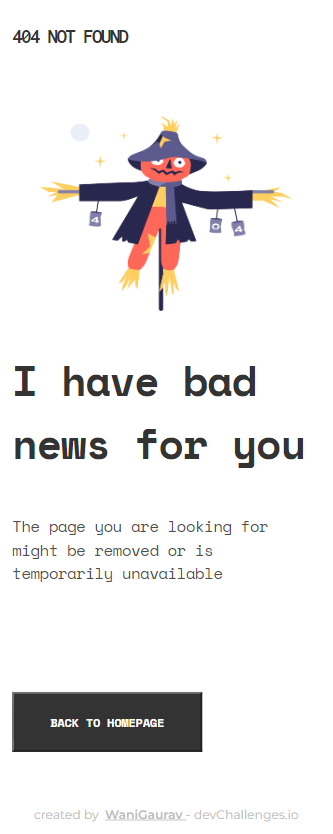
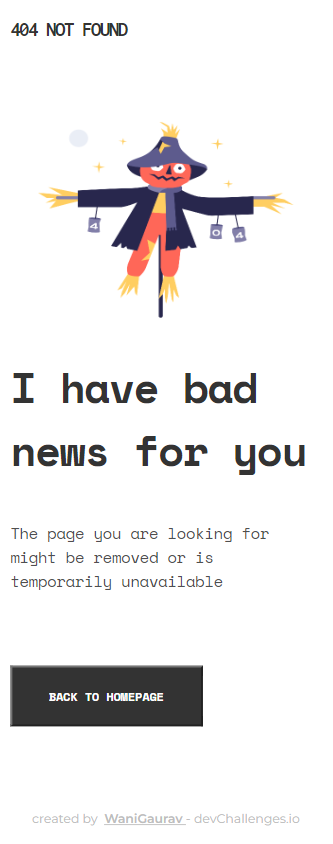
spces fix update

diff --git a/style.css b/style.css
@@ -2,16 +2,19 @@
 @import url("https://fonts.googleapis.com/css2?family=Space+Mono:ital,wght@0,400;0,700;1,400;1,700&display=swap");
 @import url("https://fonts.googleapis.com/css2?family=Montserrat:wght@400;600&display=swap");
 
-* {
+body{
   margin: 0;
-  padding: 0;
+}
+body p {
+  margin: 0;
 }
 .container {
   width: 100%;
-  height: 100vh;
   display: grid;
   grid-template-rows: 0.3fr 2.4fr 0.3fr;
   grid-template-columns: 1fr 1fr;
+  height: 100vh;
+
 }
 .item1 {
   grid-column: 1 / span 2;
@@ -24,9 +27,9 @@
 .item3 {
   grid-column: 1 / span 2;
   display: flex;
-  align-items: center;
+  align-items: flex-end;
   justify-content: center;
-  margin-bottom: 1rem;
+  padding-bottom: 20px;
 }
 .columnone {
   width: 50%;
@@ -42,7 +45,7 @@
 }
 
 .headnf {
-  margin-left: 4rem;
+  margin-left: 3rem;
   align-self: flex-start;
   font-family: "Inconsolata";
   font-style: normal;
@@ -54,7 +57,7 @@
 }
 
 .imagescr {
-  margin-left: 4rem;
+  margin-left: 3rem;
   height: 447px;
   width: 539px;
   left: 77px;
@@ -94,7 +97,6 @@
   height: 68px;
   left: 783px;
   top: 663px;
-
   background-color: #333333;
 }
 
@@ -113,36 +115,33 @@
 }
 
 .footer-column {
-  margin-top: auto;
   display: flex;
-  align-items: center;
   justify-content: center;
   font-family: "Montserrat";
   font-style: normal;
   font-weight: 500;
   font-size: 14px;
   line-height: 17px;
-
   color: #bdbdbd;
 }
 
 /* Mobile view */
 
-@media only screen and (max-width: 1200px) {
+@media only screen and (max-width: 1200px){
+  
   .container {
-    width: 100vw;
-    height: 100vh;
-    padding: 2rem;
+    width: 100%;
     display: grid;
-    justify-items: center;
     grid-template-rows: 0.3fr 2.4fr 0.3fr;
     grid-template-columns: 1fr;
+    height: 100vh;
     justify-items: center;
     align-content: space-between;
   }
   .item1 {
     width: 350px;
-    align-self: flex-start;
+    padding-top: 20px;
+    align-self:flex-start;
   }
   .item2 {
     width: fit-content;
@@ -152,7 +151,6 @@
   }
   .item3 {
     width: fit-content;
-
     display: flex;
     flex-direction: column;
     align-self: flex-end;
@@ -227,7 +225,7 @@
   }
 
   .btn-bck {
-    align-self: flex-end;
+    align-self: center;
     width: 216px;
     height: 68px;
     left: 24px;
@@ -250,7 +248,6 @@
   }
 
   .footer-column {
-    margin-top: auto;
     display: flex;
     align-items: center;
     justify-content: center;

diff --git a/index.html b/index.html
@@ -12,7 +12,7 @@
     
     <div class="container">   
         <div class="item1"> 
-            <p class="headnf"><b>404 not found</b></p><!-- column -->
+            <span class="headnf"><b>404 not found</b></span><!-- column -->
         </div> 
 
         <div class="item2"> 
@@ -20,9 +20,9 @@
                 <img class="imagescr" src="./images/Scarecrow.png" alt="Scarecrow">
             </div>
             <div class="columntwo">
-                <p class="spn1">I have bad news for you</p>
+                <span class="spn1">I have bad news for you</span>
 
-                <p class="spn2">The page you are looking for might be removed or is temporarily unavailable</p>
+                <span class="spn2">The page you are looking for might be removed or is temporarily unavailable</span>
 
                 <button class="btn-bck"><span class="btn-txt">Back to homepage</span></button>      
             </div>
